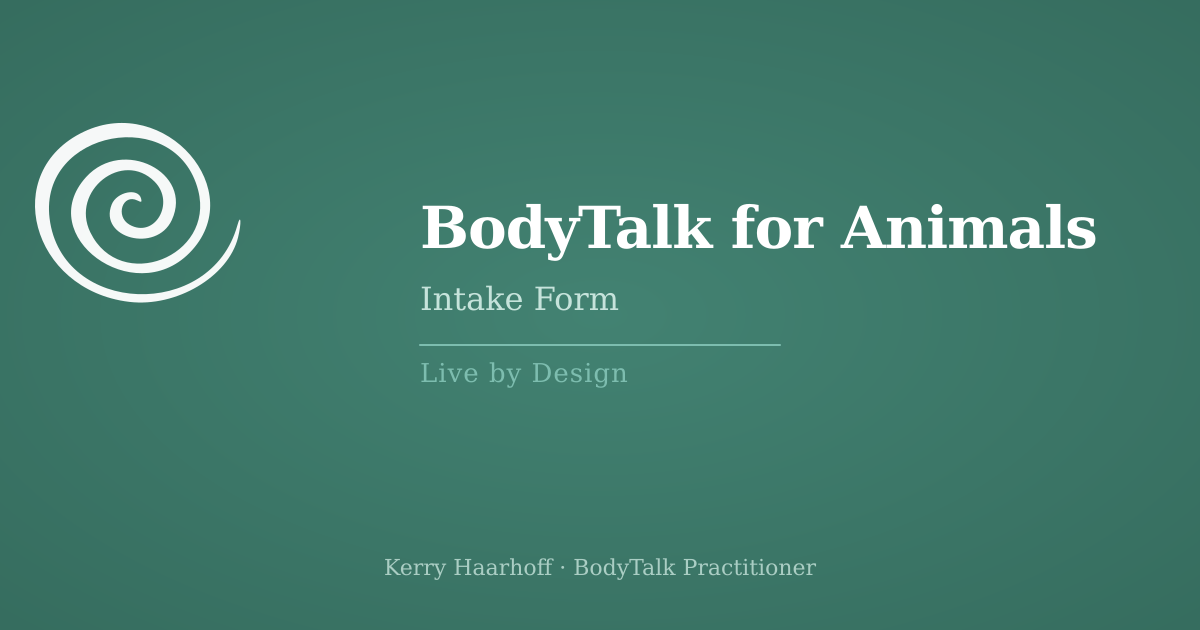
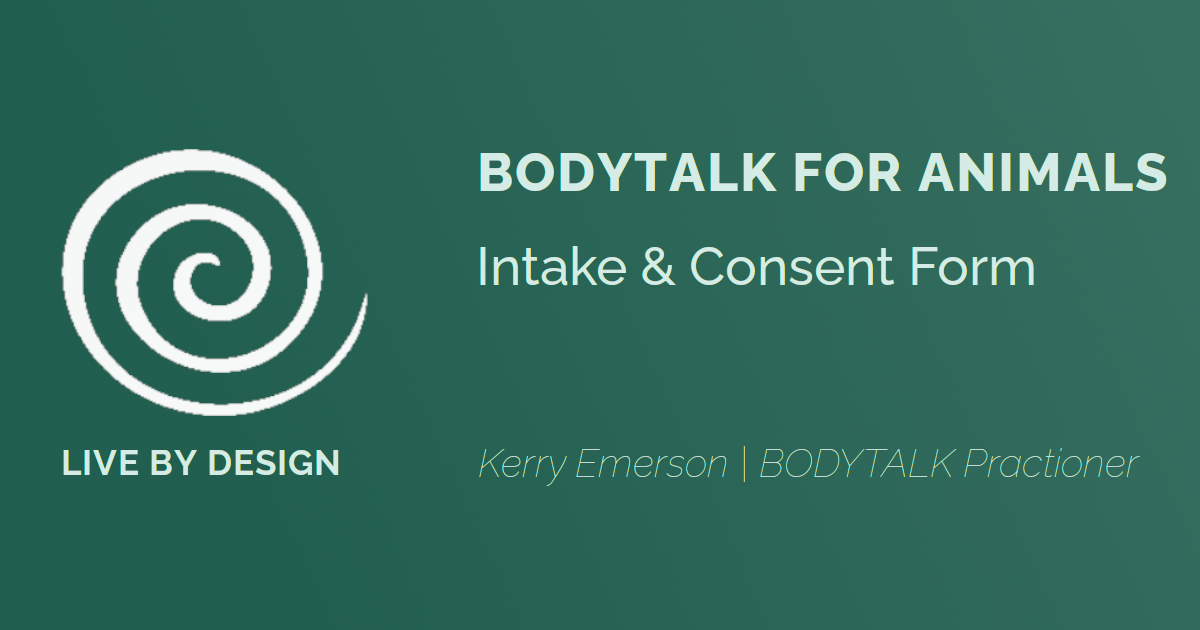
fix: clients surname weong spelling

diff --git a/index.html b/index.html
@@ -9,7 +9,7 @@
     <meta property="og:type" content="website">
     <meta property="og:url" content="https://hulahoops123.github.io/-bodytalkanimals/">
     <meta property="og:title" content="BodyTalk for Animals — Intake Form">
-    <meta property="og:description" content="Complete your BodyTalk Animals intake form with Kerry Haarhoff · Live by Design">
+    <meta property="og:description" content="Complete your BodyTalk Animals intake form with Kerry Emerson · Live by Design">
     <meta property="og:image" content="https://hulahoops123.github.io/-bodytalkanimals/og-image.png">
     <meta property="og:image:width" content="1200">
     <meta property="og:image:height" content="630">
